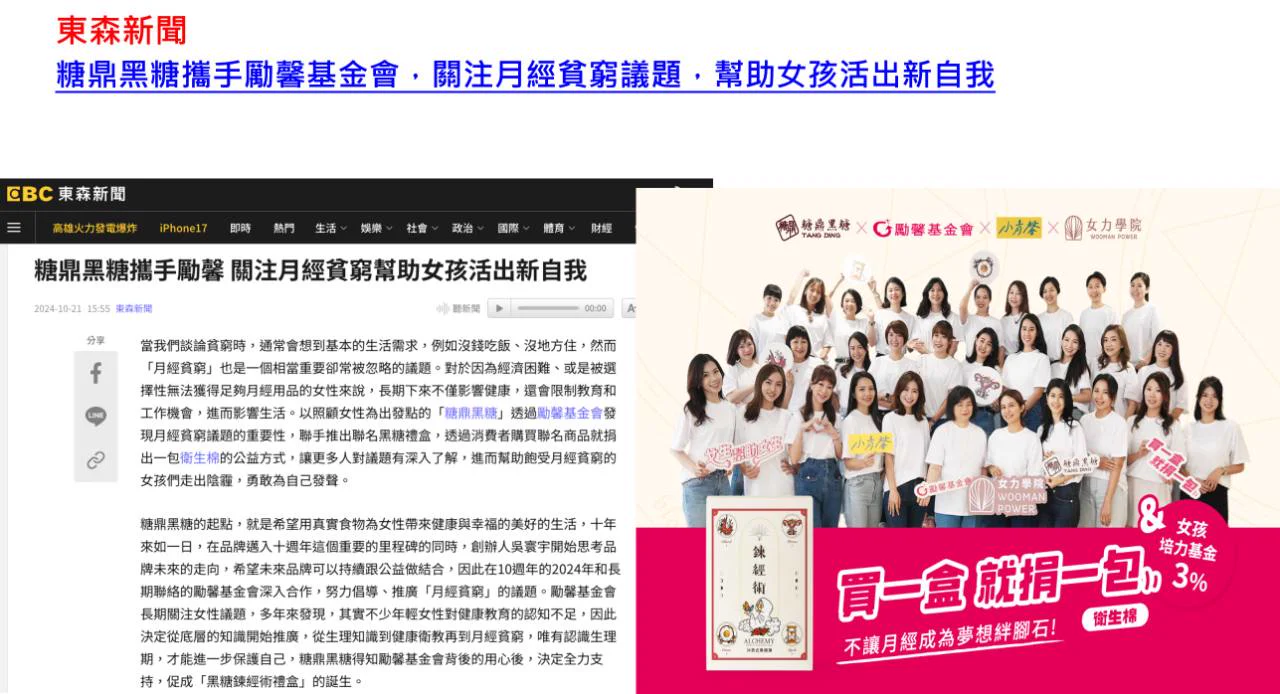
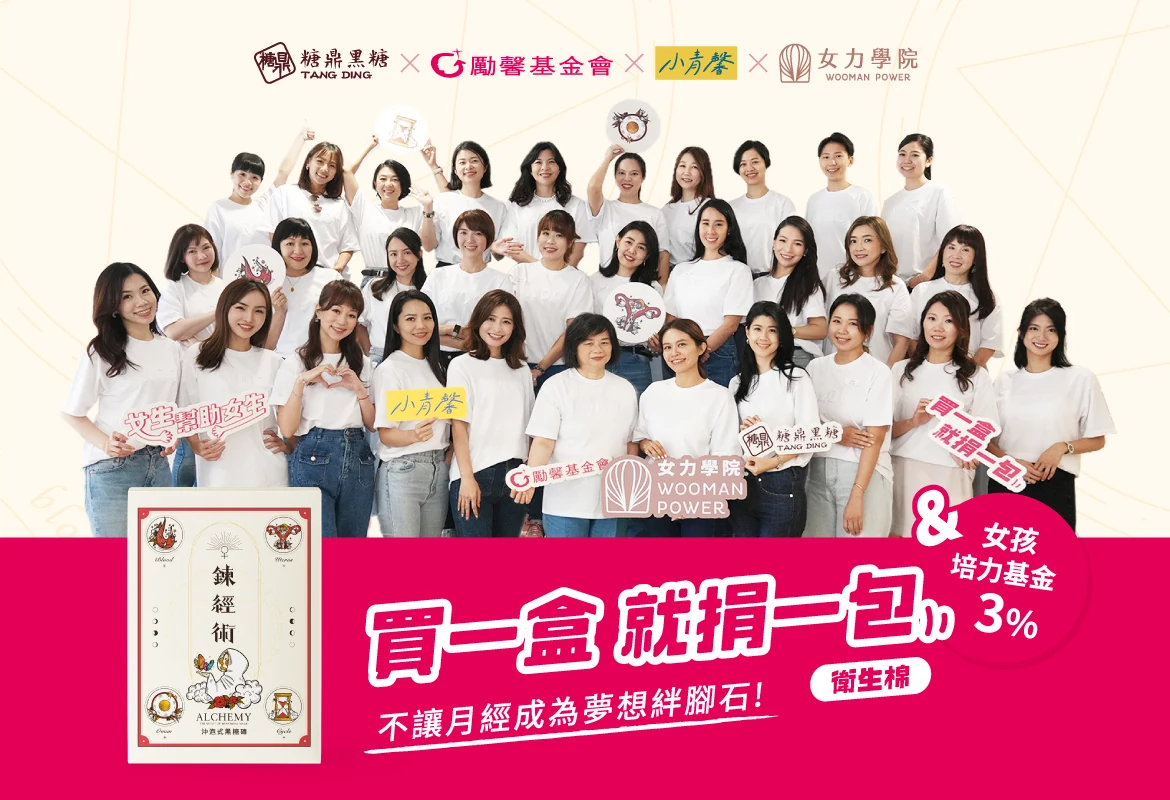
refine charity stories with original campaign imagery

diff --git a/src/styles.css b/src/styles.css
@@ -605,9 +605,11 @@ p, h1, h2, h3 { margin-top: 0; }
 .care-actions__heading > p:last-child { color: #694d47; font-size: 17px; line-height: 1.85; }
 .care-action-grid { display: grid; margin-top: 42px; gap: 28px; }
 .care-action-card { overflow: hidden; color: var(--wine-dark); border: 1px solid rgba(97,23,34,.13); border-radius: 30px 30px 8px 30px; background: rgba(255,250,241,.9); box-shadow: 0 22px 55px rgba(88,38,35,.13); }
-.care-action-card__media { position: relative; margin: 0; overflow: hidden; aspect-ratio: 1.86 / 1; background: #fff; }
+.care-action-card__media { position: relative; margin: 0; overflow: hidden; aspect-ratio: 1.5 / 1; background: #ede4db; }
 .care-action-card__media::after { position: absolute; inset: 0; border: 1px solid rgba(97,23,34,.06); content: ''; pointer-events: none; }
-.care-action-card__media img { display: block; width: 100%; height: 100%; object-fit: contain; transition: transform 1s cubic-bezier(.16,1,.3,1); }
+.care-action-card__media img { display: block; width: 100%; height: 100%; object-fit: cover; object-position: center; transition: transform 1s cubic-bezier(.16,1,.3,1); }
+.care-action-card--eye .care-action-card__media img { object-position: 46% center; }
+.care-action-card--news .care-action-card__media img { object-position: center 30%; }
 .care-action-card.is-visible .care-action-card__media img { transform: scale(1.012); }
 .care-action-card__media figcaption { position: absolute; right: 14px; bottom: 14px; padding: 7px 11px; color: #fff9ef; border-radius: 100px; background: rgba(63,10,20,.9); font-size: 13px; font-weight: 600; letter-spacing: .08em; box-shadow: 0 8px 20px rgba(38,5,12,.2); }
 .care-action-card--news .care-action-card__media figcaption { background: rgba(30,44,61,.9); }
@@ -618,6 +620,8 @@ p, h1, h2, h3 { margin-top: 0; }
 .care-action-card__meta em { color: #87452e; border: 1px solid rgba(135,69,46,.22); background: rgba(255,255,255,.5); }
 .care-action-card h4 { margin: 0 0 15px; color: var(--wine); font-family: var(--serif); font-size: 26px; font-weight: 600; line-height: 1.48; }
 .care-action-card__body > p { margin: 0; color: #6f5650; font-size: 16px; line-height: 1.8; }
+.care-action-card__source { display: inline-flex; margin-top: 22px; padding-bottom: 5px; align-items: center; gap: 7px; color: var(--wine); border-bottom: 1px solid rgba(97,23,34,.45); font-size: 14px; font-weight: 650; letter-spacing: .04em; }
+.care-action-card__source svg { width: 16px; height: 16px; stroke-width: 1.7; transition: transform .25s ease; }
 .care-promise { max-width: 610px; margin: 66px auto 0; padding-top: 28px; border-top: 1px solid rgba(97,23,34,.2); text-align: center; }
 .care-promise > span { display: inline-block; margin-bottom: 17px; padding: 8px 15px; color: #fff8ed; border-radius: 100px; background: var(--wine); font-size: 14px; font-weight: 600; letter-spacing: .12em; }
 .care-promise p { margin-bottom: 15px; color: var(--wine); font-family: var(--serif); font-size: 26px; font-weight: 600; line-height: 1.55; }
@@ -1024,8 +1028,8 @@ body.market-modal-open { overflow: hidden; }
 .impact-list { display: grid; margin-top: 50px; gap: 42px; }
 .impact-card > div { position: relative; height: 240px; overflow: hidden; border-radius: 26px 26px 6px 26px; box-shadow: 0 18px 40px rgba(74,35,26,.12); }
 .impact-card img { width: 100%; height: 100%; object-fit: cover; transition: transform 1.3s ease; }
-.impact-card--evidence > div { padding: 8px; background: #fff; }
-.impact-card--evidence img { object-fit: contain; }
+.impact-card--evidence > div { background: #eee4d9; }
+.impact-card--evidence img { object-fit: cover; object-position: center; }
 .impact-card.is-visible img { transform: scale(1.04); }
 .impact-card > p { margin: 18px 0 4px; color: var(--amber); font-family: var(--serif); font-size: 18px; letter-spacing: .16em; }
 .impact-card h3 { margin: 0; color: var(--wine); font-family: var(--serif); font-size: 26px; }

diff --git a/src/main.jsx b/src/main.jsx
@@ -339,27 +339,29 @@ function Care() {
         </Reveal>
 
         <div className="care-action-grid">
-          <Reveal className="care-action-card" delay={100}>
+          <Reveal className="care-action-card care-action-card--eye" delay={100}>
             <figure className="care-action-card__media">
-              <img src="/assets/care/eye-power.webp" alt="糖鼎贊助愛盲基金會 EYE 的美力活動紀錄" loading="lazy" />
-              <figcaption>公益活動贊助</figcaption>
+              <img src="/assets/care/eye-power.webp" alt="糖鼎黑糖團隊與愛盲基金會 EYE 的美力活動背板合影" loading="lazy" />
+              <figcaption>活動現場</figcaption>
             </figure>
             <div className="care-action-card__body">
               <div className="care-action-card__meta"><span>愛盲基金會</span><em>女性自主</em></div>
               <h4>攜手「EYE 的美力」<br />為女性自主加點溫柔力量</h4>
               <p>支持愛盲基金會募款與女性培力計畫，讓需要被看見的力量，有機會被更多人接住。</p>
+              <a className="care-action-card__source" href="https://www.gingertw.com/index.php?information_id=84&route=information/information" target="_blank" rel="noreferrer">查看完整活動介紹 <ArrowUpRight aria-hidden="true" /></a>
             </div>
           </Reveal>
 
           <Reveal className="care-action-card care-action-card--news" delay={180}>
             <figure className="care-action-card__media">
-              <img src="/assets/care/period-poverty.webp" alt="東森新聞報導糖鼎攜手勵馨基金會關注月經貧窮" loading="lazy" />
-              <figcaption>東森新聞報導</figcaption>
+              <img src="/assets/care/period-poverty.webp" alt="糖鼎黑糖、勵馨基金會與女力學院發起月經貧窮公益行動" loading="lazy" />
+              <figcaption>聯名倡議主視覺</figcaption>
             </figure>
             <div className="care-action-card__body">
               <div className="care-action-card__meta"><span>勵馨基金會</span><em>月經平權</em></div>
               <h4>關注月經貧窮<br />幫助女孩活出新自我</h4>
               <p>透過商品募集與衛生棉捐贈，把每一次消費選擇轉化為實際支持，陪女孩更自在地向前走。</p>
+              <a className="care-action-card__source" href="https://news.ebc.net.tw/news/living/449387" target="_blank" rel="noreferrer">閱讀東森完整報導 <ArrowUpRight aria-hidden="true" /></a>
             </div>
           </Reveal>
         </div>
@@ -790,7 +792,7 @@ function AboutPage() {
               ['2019', '育幼院關懷活動', '/assets/about/about-charity-2019.jpg'],
               ['2021', '伊甸基金會參訪活動', '/assets/about/about-charity-2021.jpg'],
               ['2022', '志工淨灘活動', '/assets/about/about-charity-2022.jpg'],
-              ['2024', '愛盲基金會「EYE 的美力」', '/assets/care/eye-power.webp', true],
+              ['2025', '愛盲基金會「EYE 的美力」', '/assets/care/eye-power.webp', true],
               ['2024', '勵馨基金會月經貧窮倡議', '/assets/care/period-poverty.webp', true],
             ].map(([year, title, image, evidence], index) => (
               <Reveal className={cx('impact-card', evidence && 'impact-card--evidence')} delay={index * 90} key={`${year}-${title}`}>
